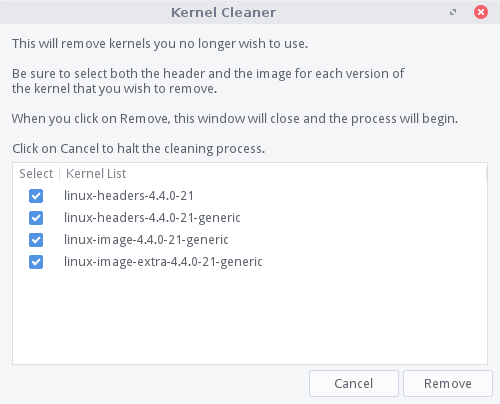
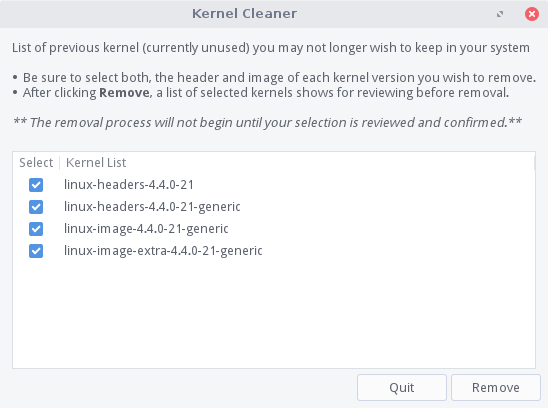
update Lite Software

diff --git a/usr/share/doc/litemanual/software.html b/usr/share/doc/litemanual/software.html
@@ -990,20 +990,17 @@ i    {font-style: italic;}
 					then click on <b>Begin</b>.</p>
 					<p><img src="images/software/litetweaks/tweaks2.png" /></p>
 
-					<p>The example computer has three kernels installed to it - the original kernel and two kernels manually added to it later. If you have
-					decided to install newer kernels to your Linux Lite, it is not a bad idea to keep two working kernels on the system. If you end up having
-					problems with one, you will then have the ability to boot into the system with the other one from the grub menu.</p>
+					<p>A confirmation box will pop-up. Click <b>Continue</b>.</p>
+					<p><img src="images/software/litetweaks/tweaks2a.png" /></p>
 
-					<p>The kernel cleaner will only display the kernels that are not currently in use. So in screenshot below only two of the three kernels
-					are displayed.  We will remove one of them.  To remove a kernel, make sure to select the "image" and "header" files that correspond to the
-					version number of the kernel, then click <b>Begin</b>.</p>
+					<p>Enter your password and click <b>OK</b>.</p>
+					<p><img src="images/software/litetweaks/tweaks2b.png" /></p>
+
+					<p>The kernel cleaner will only display the kernels that are not currently in use. To remove a kernel, make sure to select the "image" and "header" files that correspond to the
+					version number of the kernel, then click <b>Remove</b>.</p>
 					<p><img src="images/software/litetweaks/tweaks3.png" /></p>
 
-					<p>In the screenshot above you will notice that the original 3.13.0-24 kernel and a newer 3.13.0-27 kernel are shown. The newer kernel did not
-					work correctly on this machine, so that is the one selected for removal. Place a check mark in the boxes next to the "image" and "header"
-					files, then click <b>Remove</b>.</p>
-
-					<p>A confirmation box will pop-up. Click <b>Yes</b> if you are sure you want to proceed with the deletion.</p>
+					<p>A confirmation box will pop-up. Click <b>Yes</b> if you are sure you want to proceed with the kernel removal.</p>
 					<p><img src="images/software/litetweaks/tweaks4.png" /></p>
 
 					<p>Your kernel(s) will then be removed. (This may take a few minutes.)</p>
@@ -1012,14 +1009,16 @@ i    {font-style: italic;}
 					<p>Upon completion, click <b>OK</b> to close the window.</p>
 					<p><img src="images/software/litetweaks/tweaks6.png" /></p>
 
-					<p>When the task has completed, you'll be asked if you want to perform additional tasks.</p>
-					<p><img src="images/software/litetweaks/tweaks7.png" /></p>
-
 					<p>You can also select multiple tasks to perform in <b>Lite Tweaks</b>. Simply select the tasks you want to complete and click on <b>Begin</b>.</p>
 					<p><img src="images/software/litetweaks/tweaks8.png" /></p>
 
-					<p>Enter your password when asked and when the tasks have completed, you'll be asked if you want to perform additional tasks.</p>
+					<p>Enter your password when asked and click <b>OK</b>.</p>
 					<p><img src="images/software/litetweaks/tweaks9.png" /></p>
+
+					<p>A confirmation box will pop-up. Click <b>Continue</b>.</p>
+					<p><img src="images/software/litetweaks/tweaks2a.png" /></p>
+
+					<p>When the selected tasks have completed, you'll be returned to the Lite Tweaks main window.</p>
 
 					<p><a href="#top">Top of page</a></p>
 
